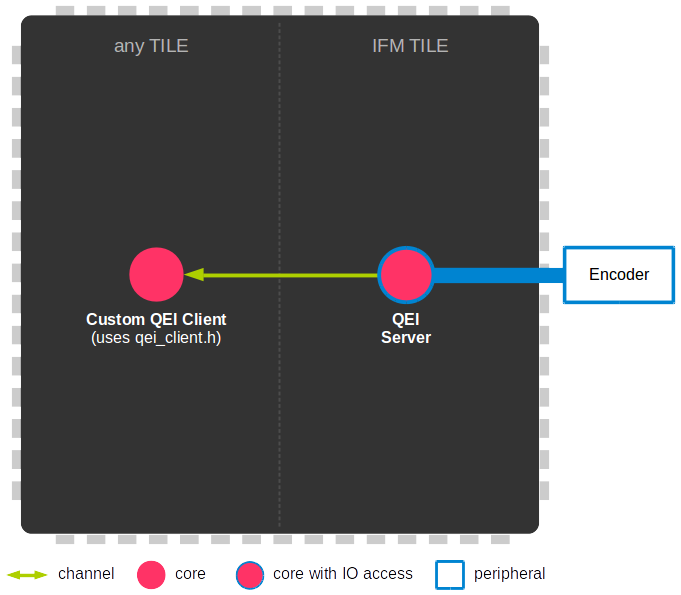
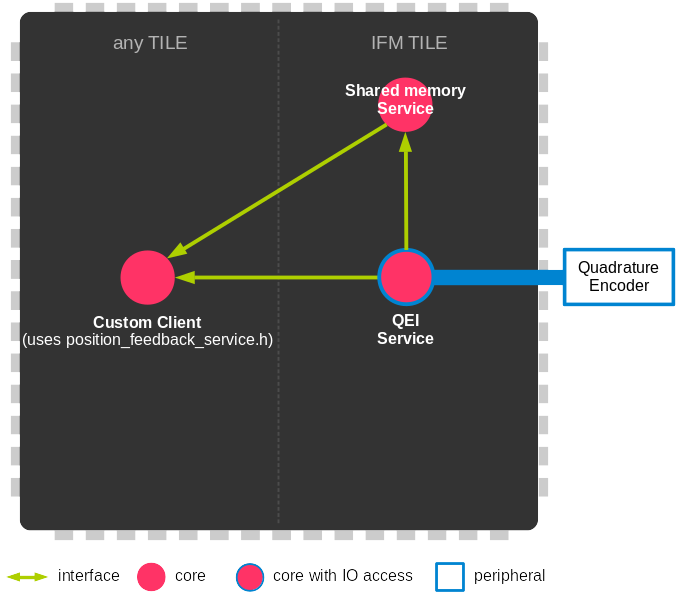
fix position feedback modules documentation digram

diff --git a/module_serial_encoder/doc/index.rst b/module_serial_encoder/doc/index.rst
@@ -18,7 +18,7 @@ your SOMANET IFM device.
 
   `See Module on Public Repository <https://github.com/synapticon/sc_sncn_motorcontrol/tree/develop/module_serial_encoder>`_
 
-.. image:: images/core-diagram-qe-interface.png
+.. image:: images/core-diagram-serial-encoder.png
    :width: 50%
 
 
